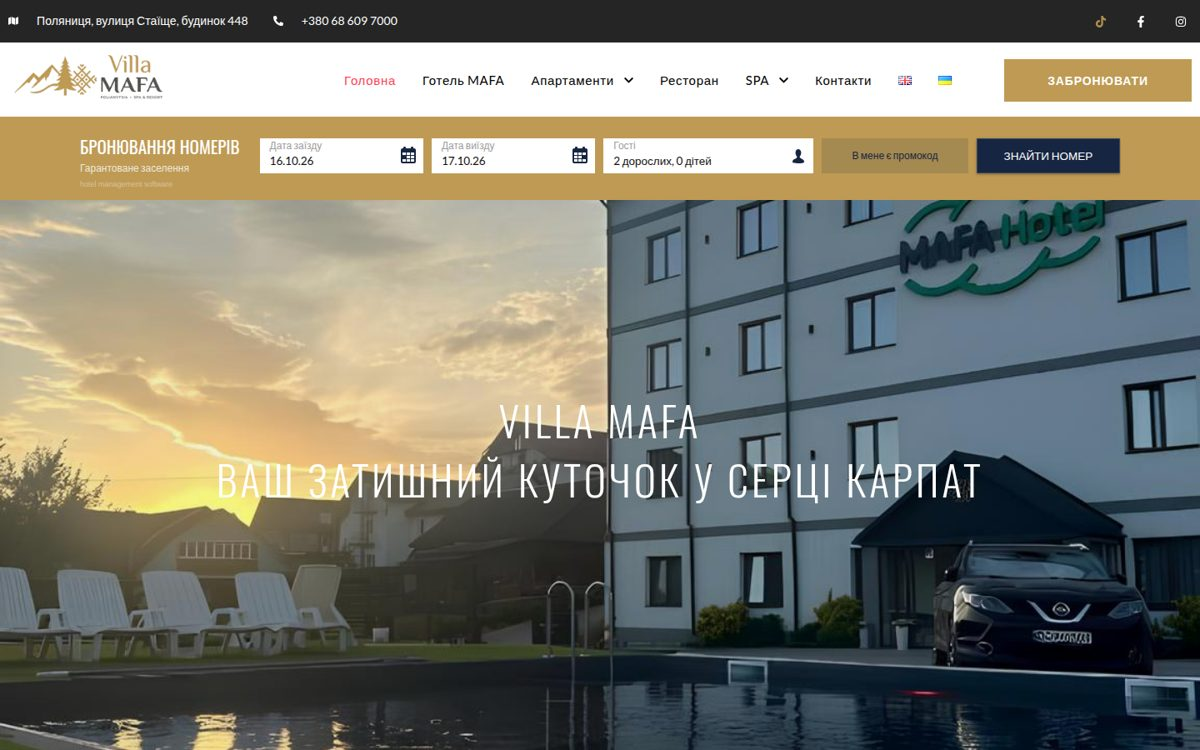
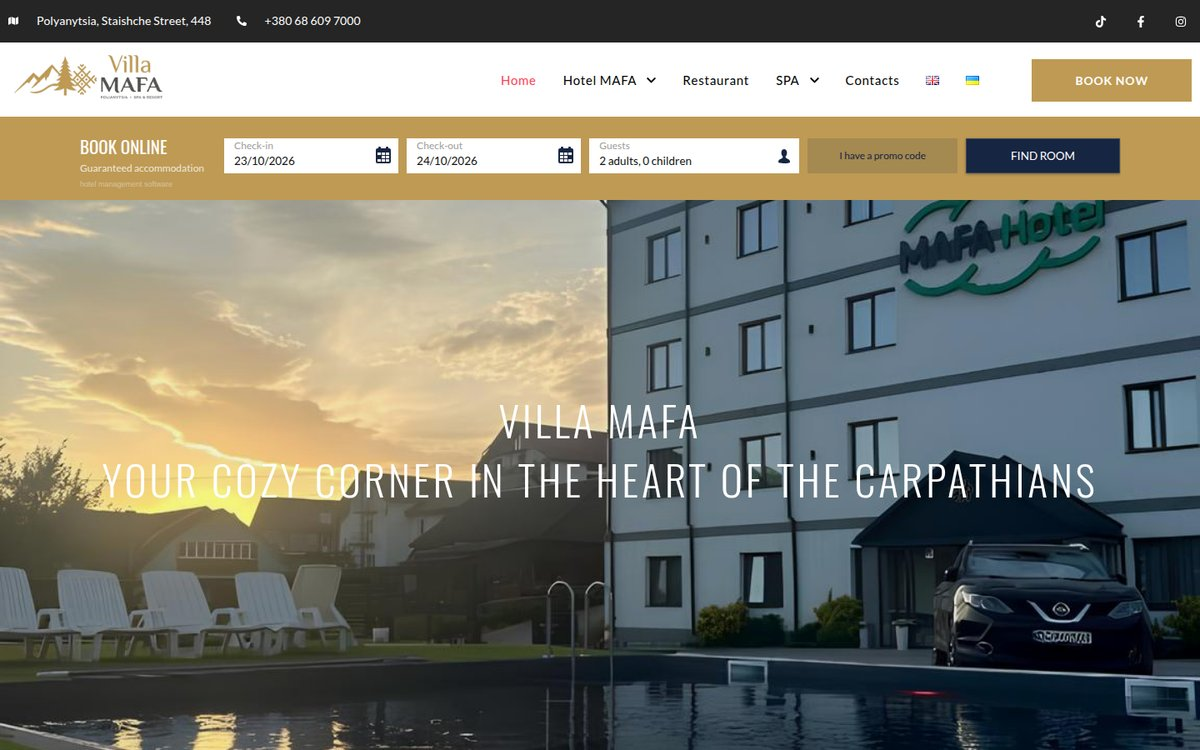
Portfolio: English-first order, language tags, EN links, Villa MAFA EN screenshot
Claude-Session: https://claude.ai/code/session_01TdSnaQHYwy6szm4QC3HpAJ

diff --git a/index.html b/index.html
@@ -147,70 +147,63 @@ footer{font-size:13px;color:var(--mute);padding-top:20px}
 
   <section id="work">
     <h2>Selected work</h2>
-    <p class="sub">Every card says what I did myself. Click a card to open the live site.</p>
+    <p class="sub">Every card says what I did myself. Click a card to open the live site; sites with an English version open in English, the rest are marked with their language.</p>
     <div class="projects">
-      <a class="proj" href="https://villa-mafa.com.ua/" target="_blank" rel="noopener">
+      <a class="proj" href="https://villa-mafa.com.ua/en/" target="_blank" rel="noopener">
         <div class="shot"><span class="sheen"></span><img src="img/villa-mafa.jpg" alt="villa-mafa.com.ua home page" loading="lazy"></div>
         <h3>Villa MAFA <small>hotel, Carpathians</small></h3>
         <p>Purchased theme turned into a custom site: most blocks rebuilt, all pages and content, English version, booking.</p>
         <div class="role"><b>My part:</b> all pages, visuals, content, WPML, booking integration</div>
-        <div class="tags"><span class="tag">WordPress</span><span class="tag">Elementor</span><span class="tag">WPML</span><span class="tag">2026</span></div>
-      </a>
-      <a class="proj" href="https://aquaparkzatoka.com.ua/" target="_blank" rel="noopener">
-        <div class="shot"><span class="sheen"></span><img src="img/aquaparkzatoka.jpg" alt="aquaparkzatoka.com.ua home page" loading="lazy"></div>
-        <h3>Aquapark Zatoka <small>hotel &amp; water park</small></h3>
-        <p>Redesign of a live site in three languages with a Servio booking widget, GA4 and GTM goals.</p>
-        <div class="role"><b>My part:</b> new design, all pages and blocks in Elementor Pro, content, booking script, analytics; base theme moved by a contract developer</div>
-        <div class="tags"><span class="tag">WordPress</span><span class="tag">Elementor Pro</span><span class="tag">Astra</span><span class="tag">UK / RU / EN</span></div>
-      </a>
-      <a class="proj" href="https://pay.moxoca.ai/" target="_blank" rel="noopener">
-        <div class="shot"><span class="sheen"></span><img src="img/moxoca-pay.jpg" alt="pay.moxoca.ai packages and payment page" loading="lazy"></div>
-        <h3>MOXO 360 payments <small>cognitive testing platform, Kazakhstan</small></h3>
-        <p>The main site is on Webflow and had no way to take payments. I built a separate payment page on a subdomain: product packages, checkout, and a bank payment gateway.</p>
-        <div class="role"><b>My part:</b> page and products on WordPress / WooCommerce, BCC Pay gateway setup and test mode with the bank, email delivery, move to the live subdomain; custom gateway code with a contract developer and Claude Code</div>
-        <div class="tags"><span class="tag">WordPress</span><span class="tag">WooCommerce</span><span class="tag">Payment gateway</span><span class="tag">2026</span></div>
-      </a>
-      <a class="proj" href="https://erudit-inclusion.com/" target="_blank" rel="noopener">
-        <div class="shot"><span class="sheen"></span><img src="img/erudit-com.jpg" alt="erudit-inclusion.com home page" loading="lazy"></div>
-        <h3>Erudit <small>child development centres, Ukraine &amp; Spain</small></h3>
-        <p>Two sites for a network of centres, a client for five years: erudit-inclusion.com and the Valencia branch erudit-inclusion.es.</p>
-        <div class="role"><b>My part:</b> layout, all pages in Elementor, Polylang, hosting and domains, GA4 / GTM / Pixel, lead forms to AmoCRM via Make</div>
-        <div class="tags"><span class="tag">WordPress</span><span class="tag">Elementor Pro</span><span class="tag">Polylang</span><span class="tag">Make → CRM</span></div>
-      </a>
-      <a class="proj" href="https://promostar.ua/" target="_blank" rel="noopener">
-        <div class="shot"><span class="sheen"></span><img src="img/promostar.jpg" alt="promostar.ua home page" loading="lazy"></div>
-        <h3>Promostar <small>event agency, Odesa</small></h3>
-        <p>Full redesign in 2026 for a client of five years: artists, hosts and stage equipment for events.</p>
-        <div class="role"><b>My part:</b> my own design, every page, built end-to-end on Tilda</div>
-        <div class="tags"><span class="tag">Tilda</span><span class="tag">Design + build</span><span class="tag">2026</span></div>
-      </a>
-      <a class="proj" href="https://performia.com.ua/" target="_blank" rel="noopener">
-        <div class="shot"><span class="sheen"></span><img src="img/performia.jpg" alt="performia.com.ua home page" loading="lazy"></div>
-        <h3>Performia <small>HR hiring technology</small></h3>
-        <p>A 50+ page site for an HR-tech company, partly from the client's Figma design, partly my own.</p>
-        <div class="role"><b>My part:</b> all 50+ pages, Figma to Tilda, GTM, GA4, Meta Pixel, Binotel call tracking</div>
-        <div class="tags"><span class="tag">Tilda</span><span class="tag">50+ pages</span><span class="tag">Figma to site</span><span class="tag">2022–2023</span></div>
+        <div class="tags"><span class="tag">WordPress</span><span class="tag">Elementor</span><span class="tag">WPML</span><span class="tag">EN / UK</span><span class="tag">2026</span></div>
       </a>
       <a class="proj" href="https://stamconsult.co.uk/" target="_blank" rel="noopener">
         <div class="shot"><span class="sheen"></span><img src="img/stamconsult.jpg" alt="stamconsult.co.uk home page" loading="lazy"></div>
         <h3>STAM Consult <small>B2B consultancy, UK</small></h3>
         <p>English site with six more language versions, built from a Figma design.</p>
         <div class="role"><b>My part:</b> Figma to Tilda, all language versions, domains, lead forms</div>
-        <div class="tags"><span class="tag">Tilda</span><span class="tag">7 languages</span><span class="tag">Figma to site</span></div>
+        <div class="tags"><span class="tag">Tilda</span><span class="tag">7 languages</span><span class="tag">Figma to site</span><span class="tag">EN</span></div>
       </a>
-      <a class="proj" href="https://turin-hotel.com.ua/" target="_blank" rel="noopener">
-        <div class="shot"><span class="sheen"></span><img src="img/turin-hotel.jpg" alt="turin-hotel.com.ua home page" loading="lazy"></div>
-        <h3>Turin Hotel <small>new hotel with a pool, Black Sea coast</small></h3>
-        <p>A brand-new hotel needed a site before its first season: colours, identity and the site itself.</p>
-        <div class="role"><b>My part:</b> design, identity, build, GA4 / GTM</div>
-        <div class="tags"><span class="tag">Tilda</span><span class="tag">Design + build</span><span class="tag">2024</span></div>
+      <a class="proj" href="https://nightingales.com.ua/en" target="_blank" rel="noopener">
+        <div class="shot"><span class="sheen"></span><img src="img/nightingales.jpg" alt="nightingales.com.ua home page" loading="lazy"></div>
+        <h3>Nightingales Partners <small>law firm, Odesa</small></h3>
+        <p>Multi-page site for a law firm with an English version: practice areas, people, insights.</p>
+        <div class="role"><b>My part:</b> design, every page, both language versions, built end-to-end on Tilda</div>
+        <div class="tags"><span class="tag">Tilda</span><span class="tag">Design + build</span><span class="tag">EN / UK</span><span class="tag">2023</span></div>
       </a>
-      <a class="proj" href="https://erudite-medical.com.ua/" target="_blank" rel="noopener">
-        <div class="shot"><span class="sheen"></span><img src="img/erudite-medical.jpg" alt="erudite-medical.com.ua home page" loading="lazy"></div>
-        <h3>Erudite Medical <small>rehabilitation centre, Kyiv</small></h3>
-        <p>New adult rehabilitation direction of Erudit, launched in 2026 from a client interview to a live site.</p>
-        <div class="role"><b>My part:</b> design, all pages, content from the client interview, GA4, Meta Pixel</div>
-        <div class="tags"><span class="tag">Tilda</span><span class="tag">Design + build</span><span class="tag">2026</span></div>
+      <a class="proj" href="https://panama-maritime-education.com/" target="_blank" rel="noopener">
+        <div class="shot"><span class="sheen"></span><img src="img/panama.jpg" alt="panama-maritime-education.com home page" loading="lazy"></div>
+        <h3>Panama Maritime Education <small>seafarer training centre</small></h3>
+        <p>English-language WordPress site for a maritime training centre, kept running and updated on the live server.</p>
+        <div class="role"><b>My part:</b> led development with a contract developer; in 2026 a new header and office page, forms, email routing, Open Graph and page weight cut from 1.6 MB to 220 KB</div>
+        <div class="tags"><span class="tag">WordPress</span><span class="tag">WPML</span><span class="tag">Live-site fixes</span><span class="tag">EN</span></div>
+      </a>
+      <a class="proj" href="https://casadeifiori.us/" target="_blank" rel="noopener">
+        <div class="shot"><span class="sheen"></span><img src="img/casadeifiori.jpg" alt="casadeifiori.us home page" loading="lazy"></div>
+        <h3>Casa Dei Fiori <small>florist boutique, Beverly Hills</small></h3>
+        <p>Shopify store for a US florist: the home page rebuilt from new blocks, products and collections added, apps set up.</p>
+        <div class="role"><b>My part:</b> home page rebuild, products, collections, apps and theme edits on Shopify</div>
+        <div class="tags"><span class="tag">Shopify</span><span class="tag">E-commerce</span><span class="tag">EN</span><span class="tag">2025</span></div>
+      </a>
+      <a class="proj" href="https://aquaparkzatoka.com.ua/" target="_blank" rel="noopener">
+        <div class="shot"><span class="sheen"></span><img src="img/aquaparkzatoka.jpg" alt="aquaparkzatoka.com.ua home page" loading="lazy"></div>
+        <h3>Aquapark Zatoka <small>hotel &amp; water park</small></h3>
+        <p>Redesign of a live site in three languages with a Servio booking widget, GA4 and GTM goals. See the before / after below.</p>
+        <div class="role"><b>My part:</b> new design, all pages and blocks in Elementor Pro, content, booking script, analytics; base theme moved by a contract developer</div>
+        <div class="tags"><span class="tag">WordPress</span><span class="tag">Elementor Pro</span><span class="tag">Astra</span><span class="tag">UK / RU</span></div>
+      </a>
+      <a class="proj" href="https://pay.moxoca.ai/" target="_blank" rel="noopener">
+        <div class="shot"><span class="sheen"></span><img src="img/moxoca-pay.jpg" alt="pay.moxoca.ai packages and payment page" loading="lazy"></div>
+        <h3>MOXO 360 payments <small>cognitive testing platform, Kazakhstan</small></h3>
+        <p>The main site is on Webflow and had no way to take payments. I built a separate payment page on a subdomain: product packages, checkout, and a bank payment gateway.</p>
+        <div class="role"><b>My part:</b> page and products on WordPress / WooCommerce, BCC Pay gateway setup and test mode with the bank, email delivery, move to the live subdomain; custom gateway code with a contract developer and Claude Code</div>
+        <div class="tags"><span class="tag">WordPress</span><span class="tag">WooCommerce</span><span class="tag">Payment gateway</span><span class="tag">RU</span><span class="tag">2026</span></div>
+      </a>
+      <a class="proj" href="https://erudit-inclusion.com/" target="_blank" rel="noopener">
+        <div class="shot"><span class="sheen"></span><img src="img/erudit-com.jpg" alt="erudit-inclusion.com home page" loading="lazy"></div>
+        <h3>Erudit <small>child development centres, Ukraine &amp; Spain</small></h3>
+        <p>Two sites for a network of centres, a client for five years: erudit-inclusion.com and the Valencia branch erudit-inclusion.es.</p>
+        <div class="role"><b>My part:</b> layout, all pages in Elementor, Polylang, hosting and domains, GA4 / GTM / Pixel, lead forms to AmoCRM via Make</div>
+        <div class="tags"><span class="tag">WordPress</span><span class="tag">Elementor Pro</span><span class="tag">Polylang</span><span class="tag">Make → CRM</span><span class="tag">UK / RU · ES</span></div>
       </a>
     </div>
   </section>
@@ -244,17 +237,18 @@ footer{font-size:13px;color:var(--mute);padding-top:20px}
 
   <section id="more">
     <h2>More work</h2>
-    <p class="sub">Smaller sites and older projects, all still live.</p>
+    <p class="sub">Sites for Ukrainian clients and older projects, all still live. Language marked on each card.</p>
     <div class="more">
+      <a href="https://promostar.ua/" target="_blank" rel="noopener"><img src="img/promostar.jpg" alt="" loading="lazy"><div><b>Promostar</b><span>Tilda · event agency · full redesign, my own design, every page · UK · 2026</span></div></a>
+      <a href="https://performia.com.ua/" target="_blank" rel="noopener"><img src="img/performia.jpg" alt="" loading="lazy"><div><b>Performia</b><span>Tilda · HR-tech · all 50+ pages from Figma, GTM / GA4 / Pixel, call tracking · UK / RU</span></div></a>
+      <a href="https://turin-hotel.com.ua/" target="_blank" rel="noopener"><img src="img/turin-hotel.jpg" alt="" loading="lazy"><div><b>Turin Hotel</b><span>Tilda · new hotel · design, identity, build, GA4 / GTM · UK · 2024</span></div></a>
+      <a href="https://erudite-medical.com.ua/" target="_blank" rel="noopener"><img src="img/erudite-medical.jpg" alt="" loading="lazy"><div><b>Erudite Medical</b><span>Tilda · rehabilitation centre · design + build from a client interview · UK · 2026</span></div></a>
       <a href="https://erudit-inclusion.es/" target="_blank" rel="noopener"><img src="img/erudit-es.jpg" alt="" loading="lazy"><div><b>Erudit Valencia</b><span>WordPress · Elementor · ES / RU / UK</span></div></a>
-      <a href="https://hot-chocolate.com.ua/" target="_blank" rel="noopener"><img src="img/hot-chocolate.jpg" alt="" loading="lazy"><div><b>Hot Chocolate hotel</b><span>Tilda · moved and redesigned</span></div></a>
-      <a href="https://aquakoblevo.net/" target="_blank" rel="noopener"><img src="img/aquakoblevo.jpg" alt="" loading="lazy"><div><b>Aquapark Koblevo</b><span>Tilda · booking widget · design + build</span></div></a>
-      <a href="https://nightingales.com.ua/" target="_blank" rel="noopener"><img src="img/nightingales.jpg" alt="" loading="lazy"><div><b>Nightingales Partners</b><span>Tilda · law firm · design + build</span></div></a>
-      <a href="https://garant-plus-service.com.ua/" target="_blank" rel="noopener"><img src="img/garant-plus.jpg" alt="" loading="lazy"><div><b>Garant Plus Service</b><span>Tilda · landing · text written with AI</span></div></a>
-      <a href="https://concretegroup.com.ua/" target="_blank" rel="noopener"><img src="img/concretegroup.jpg" alt="" loading="lazy"><div><b>Concrete Group</b><span>Tilda · landing · text written with AI · 2026</span></div></a>
-      <a href="https://panama-maritime-education.com/" target="_blank" rel="noopener"><img src="img/panama.jpg" alt="" loading="lazy"><div><b>Panama Maritime Education</b><span>WordPress · WPML · led development</span></div></a>
-      <a href="https://casadeifiori.us/" target="_blank" rel="noopener"><img src="img/casadeifiori.jpg" alt="" loading="lazy"><div><b>Casa Dei Fiori</b><span>Shopify · florist, Beverly Hills · home page rebuild, products, apps · 2025</span></div></a>
-      <a href="https://sky-apartments.com.ua/" target="_blank" rel="noopener"><img src="img/sky-apartments.jpg" alt="" loading="lazy"><div><b>Sky Apartments</b><span>WordPress · WPML · led development</span></div></a>
+      <a href="https://sky-apartments.com.ua/en/" target="_blank" rel="noopener"><img src="img/sky-apartments.jpg" alt="" loading="lazy"><div><b>Sky Apartments</b><span>WordPress · WPML · led development · EN / UK</span></div></a>
+      <a href="https://hot-chocolate.com.ua/" target="_blank" rel="noopener"><img src="img/hot-chocolate.jpg" alt="" loading="lazy"><div><b>Hot Chocolate hotel</b><span>Tilda · moved and redesigned · UK</span></div></a>
+      <a href="https://aquakoblevo.net/" target="_blank" rel="noopener"><img src="img/aquakoblevo.jpg" alt="" loading="lazy"><div><b>Aquapark Koblevo</b><span>Tilda · booking widget · design + build · UK</span></div></a>
+      <a href="https://garant-plus-service.com.ua/" target="_blank" rel="noopener"><img src="img/garant-plus.jpg" alt="" loading="lazy"><div><b>Garant Plus Service</b><span>Tilda · landing · text written with AI · UK</span></div></a>
+      <a href="https://concretegroup.com.ua/" target="_blank" rel="noopener"><img src="img/concretegroup.jpg" alt="" loading="lazy"><div><b>Concrete Group</b><span>Tilda · landing · text written with AI · UK · 2026</span></div></a>
     </div>
   </section>
 
